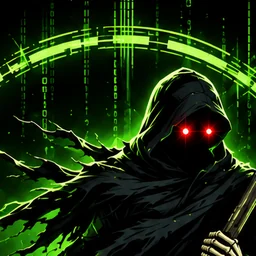
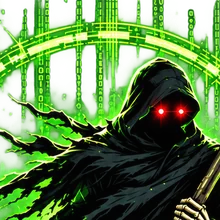
Charon art: transparent cutout in emanating ring-light, not a flat square
Swapped to the owner's background-removed (transparent) Charon and gave him a
presentation instead of a square card: the figure floats over a pulsing green
aura with concentric ring-light emanating outward (the same feel as the old
eye-orb's expanding ring), so he reads as a glowing apparition that blends into
the dark theme rather than a box sitting there. His own glowing red eyes are
kept (they are in the art).

- new assets/img/charon.webp (560px transparent WebP, 143KB) + charon-avatar.webp
  (220px transparent face crop, 32KB); both lazy-loaded, decoding=async, alt text.
- .charon-fig wraps the img with .charon-aura (radial green glow) and two
  staggered .charon-ring elements that scale-and-fade; all motion gated by
  prefers-reduced-motion (static halo when reduced).
- the small inline marker is a round transparent face avatar with a green glow.
- pruned the now-dead .stuck-eye orb CSS and its keyframes.

Driven headless desktop + mobile on Help Quick Start and the Stuck? intro:
the figure floats in the halo, no square, 0 console errors. browser-smoke +
help-coverage green; assets stamped.

Claude-Session: https://claude.ai/code/session_01U4vM56Aam2B6XjLcQUU3jg

diff --git a/assets/css/obol.css b/assets/css/obol.css
@@ -3836,20 +3836,7 @@ main#view:has(.stuck) { max-width: 2600px; }
 @media (prefers-reduced-motion: no-preference) { .stuck-stage-interview .stuck-say::after { animation: stuckCaret 1.05s steps(1) infinite; } }
 @keyframes stuckCaret { 50% { opacity: 0; } }
 
-/* the eye */
-.stuck-eye { position: relative; width: 84px; height: 84px; flex: none; border-radius: 50%;
-  background: radial-gradient(circle at 50% 42%, #ffffff, var(--accent) 28%, color-mix(in srgb, var(--accent) 45%, transparent) 58%, transparent 72%);
-  box-shadow: 0 0 42px -4px var(--accent), 0 0 84px -12px var(--accent-2); }
-.stuck-eye.sm { width: 46px; height: 46px; box-shadow: 0 0 26px -5px var(--accent), 0 0 48px -12px var(--accent-2); }
-.stuck-eye-core { position: absolute; inset: 36%; border-radius: 50%; background: #fff; box-shadow: 0 0 12px 2px #fff; }
-.stuck-eye-ring { position: absolute; inset: 0; border-radius: 50%; border: 1px solid color-mix(in srgb, var(--accent-2) 55%, transparent); }
-@media (prefers-reduced-motion: no-preference) {
-  .stuck-eye { animation: stuckEyePulse 3.6s ease-in-out infinite, stuckEyeHue 14s linear infinite; }
-  .stuck-eye-ring { animation: stuckEyeRing 3.6s ease-out infinite; }
-}
-@keyframes stuckEyePulse { 0%, 100% { box-shadow: 0 0 42px -4px var(--accent), 0 0 84px -14px var(--accent-2); } 50% { box-shadow: 0 0 58px 2px var(--accent), 0 0 118px -6px var(--accent-2); } }
-@keyframes stuckEyeRing { 0% { transform: scale(1); opacity: .7; } 100% { transform: scale(1.7); opacity: 0; } }
-@keyframes stuckEyeHue { 0% { filter: hue-rotate(0deg); } 100% { filter: hue-rotate(360deg); } }
+/* Charon is the illustration now (see .charon-fig); the old eye-orb styles were retired. */
 
 /* answer buttons */
 .stuck-answers { display: flex; flex-wrap: wrap; gap: 12px; margin-top: 10px; }
@@ -3900,7 +3887,7 @@ main#view:has(.stuck) { max-width: 2600px; }
 .stuck-refine-h { font: 800 10.5px var(--mono); letter-spacing: .06em; text-transform: uppercase; color: var(--muted); margin: 16px 0 8px; }
 .stuck-clear-tried { margin-top: 10px; background: none; border: 1px dashed var(--line); color: var(--accent-2); border-radius: 8px; padding: 8px 13px; cursor: pointer; font: 600 12px var(--mono); }
 
-@media (max-width: 560px) { .stuck-ferry { gap: 14px; } .stuck-eye { width: 60px; height: 60px; } .stuck-say { font-size: 15px; } .stuck-ans { flex-basis: 100%; } }
+@media (max-width: 560px) { .stuck-ferry { gap: 14px; } .stuck-say { font-size: 15px; } .stuck-ans { flex-basis: 100%; } }
 
 /* ===== Help tab (routes/help.js) ===== */
 .help-route { max-width: 1100px; }
@@ -3945,12 +3932,23 @@ main#view:has(.stuck) { max-width: 2600px; }
 /* Charon quick-start */
 .help-charon { display: flex; align-items: center; gap: 22px; background: var(--surf1); border: 1px solid var(--line-hot); border-radius: var(--radius); padding: 18px 22px; margin-bottom: 16px; }
 .help-charon-say { font-size: 13.5px; line-height: 1.5; color: var(--text); margin: 0; }
-/* Charon the ferryman illustration: hero (intro) + round face avatar (inline) */
-.charon-art { flex: none; width: 220px; height: 220px; border-radius: 14px; object-fit: cover; background: #000;
-  border: 1px solid color-mix(in srgb, #3dff88 35%, var(--line-hot)); box-shadow: 0 0 34px -8px rgba(61,255,120,.4), inset 0 0 0 1px rgba(0,0,0,.4); }
-.charon-av { flex: none; width: 46px; height: 46px; border-radius: 50%; object-fit: cover; background: #000;
-  box-shadow: 0 0 16px -3px rgba(61,255,120,.5), 0 0 10px -4px rgba(255,40,40,.6); }
-@media (max-width: 560px) { .help-charon { gap: 14px; padding: 14px; } .charon-art { width: 132px; height: 132px; } }
+/* Charon the ferryman: the transparent illustration floating in emanating ring-light + an aura,
+   the way the old eye-orb pulsed, so it reads as a glowing figure, not a square. */
+.charon-fig { position: relative; flex: none; width: 216px; height: 216px; display: grid; place-items: center; }
+.charon-img { position: relative; z-index: 2; width: 100%; height: 100%; object-fit: contain; filter: drop-shadow(0 0 10px rgba(61,255,120,.45)); }
+.charon-aura { position: absolute; z-index: 0; width: 92%; height: 92%; border-radius: 50%;
+  background: radial-gradient(circle, rgba(61,255,120,.34), rgba(61,255,120,.1) 46%, transparent 70%); filter: blur(7px); }
+.charon-ring { position: absolute; z-index: 1; width: 78%; height: 78%; border-radius: 50%; border: 1.5px solid rgba(61,255,120,.5); opacity: .5; }
+@media (prefers-reduced-motion: no-preference) {
+  .charon-aura { animation: charonAura 3.8s ease-in-out infinite; }
+  .charon-ring { animation: charonRing 3.8s ease-out infinite; }
+  .charon-ring.r2 { animation-delay: 1.9s; }
+}
+@keyframes charonAura { 0%,100% { opacity: .6; transform: scale(1); } 50% { opacity: 1; transform: scale(1.04); } }
+@keyframes charonRing { 0% { transform: scale(.68); opacity: .6; } 100% { transform: scale(1.3); opacity: 0; } }
+/* small inline avatar: transparent face crop with a green glow */
+.charon-av { flex: none; width: 48px; height: 48px; border-radius: 50%; object-fit: cover; filter: drop-shadow(0 0 8px rgba(61,255,120,.55)); }
+@media (max-width: 560px) { .help-charon { gap: 14px; padding: 14px; } .charon-fig { width: 140px; height: 140px; } }
 .help-qs-grid { display: grid; grid-template-columns: repeat(auto-fit, minmax(260px, 1fr)); gap: 12px; }
 .help-qs { display: flex; gap: 12px; background: var(--surf2); border: 1px solid var(--line); border-radius: var(--radius); padding: 13px 14px; }
 .help-qs-n { flex: none; width: 26px; height: 26px; border-radius: 50%; background: var(--accent-soft); color: var(--accent-2); font-weight: 800; font-size: 13px; display: flex; align-items: center; justify-content: center; }

diff --git a/assets/ui/lazy.js b/assets/ui/lazy.js
@@ -28,7 +28,7 @@
     tools: ['assets/engine/toolbuilder.js?v=b3586e67', 'data/toolset.js?v=70b2d005', 'assets/ui/routes/tools.js?v=aff6dc97'],
     loadout: ['assets/engine/arsenal.js?v=0761fa4f', 'assets/ui/routes/loadout.js?v=f6d299e1'],
     workbench: ['assets/engine/workbench.js?v=335c8fa6', 'assets/ui/routes/workbench.js?v=c698ea13'],
-    stuck: ['data/stuck-catalog.js?v=14d96459', 'assets/engine/stuck.js?v=9f3ec324', 'assets/ui/routes/stuck.js?v=253db35a'],
+    stuck: ['data/stuck-catalog.js?v=14d96459', 'assets/engine/stuck.js?v=9f3ec324', 'assets/ui/routes/stuck.js?v=03e1ce42'],
     study: ['data/study-fixtures.js?v=a596d3da', 'assets/engine/study.js?v=303c7964', 'assets/ui/routes/study.js?v=6030fff7'],
     decisionmap: ['data/decision-forks.js?v=abde552b', 'data/parser-signatures.js?v=7c8e5159', 'data/coverage-expected.js?v=afdb39b5', 'data/flag-reach.js?v=e8d6c84a', 'assets/engine/decisionmap.js?v=8986cb18', 'assets/ui/decisiontree.js?v=b97043a7'],
     checklist: ['assets/ui/routes/checklist.js?v=68b05ed8'],
@@ -39,7 +39,7 @@
     map: ['assets/engine/engmap.js?v=488914b1', 'assets/ui/routes/map.js?v=b415a554'],
     findings: ['data/attack-catalog.js?v=2c0cff09', 'data/attack-move-map.js?v=38c74367', 'data/d3fend-map.js?v=c8b35d9d', 'data/frameworks-tables.js?v=169ba840', 'data/kev-catalog.js?v=e8b4d122', 'assets/engine/frameworks.js?v=50ac05e2', 'assets/ui/routes/findings.js?v=3657fdb9'],
     history: ['assets/ui/routes/history.js?v=f2888760'],
-    help: ['data/help-content.js?v=ed84015b', 'assets/ui/routes/help.js?v=877c6a8d'],
+    help: ['data/help-content.js?v=ed84015b', 'assets/ui/routes/help.js?v=08468aaf'],
   };
 
   var _loaded = {};   // group -> Promise

diff --git a/index.html b/index.html
@@ -5,7 +5,7 @@
   <meta name="viewport" content="width=device-width, initial-scale=1">
   <title>OBOL: Offensive Box Operations Ledger</title>
   <meta name="description" content="Evidence-driven OSCP operator companion. A browser-local, static-site edition of the obol engine: proof-gated next-move coach, conservative parsers, BloodHound analysis, checklist, and OSCP reporting. No backend, no execution.">
-  <link rel="stylesheet" href="assets/css/obol.css?v=32992532">
+  <link rel="stylesheet" href="assets/css/obol.css?v=a08a1683">
   <script>
     /* Pre-paint skin: set before first paint so there is no flash. Tiny + synchronous. */
     (function () {
@@ -155,7 +155,7 @@
   <script defer src="assets/ui/graphtip.js?v=bb9b0267"></script>
   <script defer src="assets/ui/ingest.js?v=7ac4b3d4"></script>
   <script defer src="assets/ui/router.js?v=4dfb140d"></script>
-  <script defer src="assets/ui/lazy.js?v=f127247e"></script>
+  <script defer src="assets/ui/lazy.js?v=15203e4d"></script>
   <script defer src="assets/ui/palette.js?v=7810a48c"></script>
   <script defer src="assets/ui/routes/home.js?v=f20fe24e"></script>
   <script defer src="assets/ui/routes/targets.js?v=8d31ba54"></script>

diff --git a/assets/ui/routes/stuck.js b/assets/ui/routes/stuck.js
@@ -47,8 +47,9 @@
   // Charon's visage: the cyberpunk-ferryman illustration (hero for the intro, a face avatar inline).
   function eyeHtml(small) {
     return small
-      ? '<img class="charon-av" src="assets/img/charon-avatar.webp?v=1" width="46" height="46" loading="lazy" decoding="async" alt="Charon the ferryman">'
-      : '<img class="charon-art" src="assets/img/charon.webp?v=1" width="220" height="220" loading="lazy" decoding="async" alt="Charon the ferryman, hooded with glowing red eyes in a skull boat on the green Styx">';
+      ? '<img class="charon-av" src="assets/img/charon-avatar.webp?v=2" width="48" height="48" loading="lazy" decoding="async" alt="Charon the ferryman">'
+      : '<div class="charon-fig"><span class="charon-aura"></span><span class="charon-ring"></span><span class="charon-ring r2"></span>'
+        + '<img class="charon-img" src="assets/img/charon.webp?v=2" width="216" height="216" loading="lazy" decoding="async" alt="Charon the ferryman, hooded with glowing red eyes in a skull boat on the green Styx"></div>';
   }
   function typeInto(text) {
     var el = _mount && _mount.querySelector('.stuck-say');

diff --git a/assets/ui/routes/help.js b/assets/ui/routes/help.js
@@ -59,8 +59,10 @@
   }
 
   function renderStart(H) {
-    // the cyberpunk Charon illustration, the same ferryman the Stuck? tab shows (continuity)
-    var intro = '<div class="help-charon"><img class="charon-art" src="assets/img/charon.webp?v=1" width="220" height="220" loading="lazy" decoding="async" alt="Charon the ferryman, hooded with glowing red eyes in a skull boat on the green Styx">'
+    // the cyberpunk Charon illustration, floating in emanating ring-light (same ferryman as Stuck?)
+    var intro = '<div class="help-charon">'
+      + '<div class="charon-fig"><span class="charon-aura"></span><span class="charon-ring"></span><span class="charon-ring r2"></span>'
+      + '<img class="charon-img" src="assets/img/charon.webp?v=2" width="216" height="216" loading="lazy" decoding="async" alt="Charon the ferryman, hooded with glowing red eyes in a skull boat on the green Styx"></div>'
       + '<p class="help-charon-say">' + esc(H.charonIntro || '') + '</p></div>';
     var cards = (H.quickstart || []).map(function (q, i) {
       return '<div class="help-qs"><div class="help-qs-n" aria-hidden="true">' + (i + 1) + '</div>'
